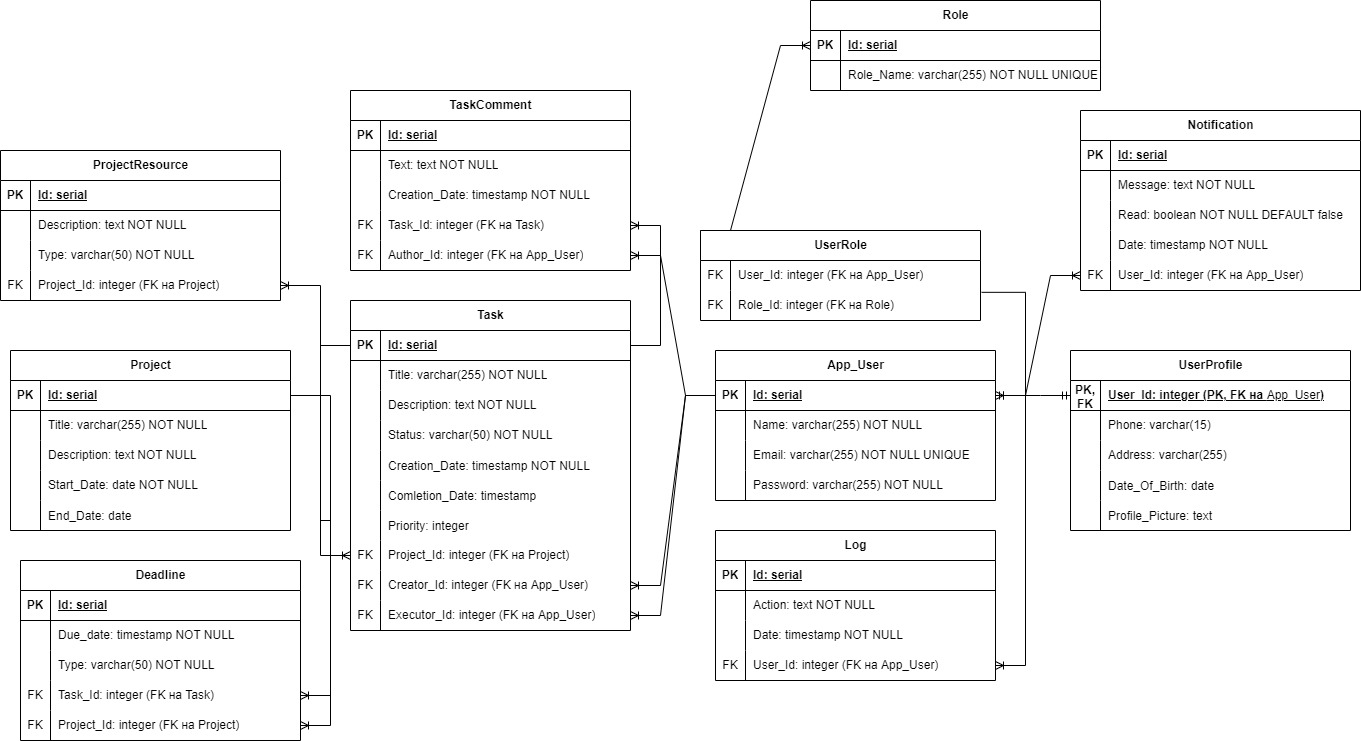
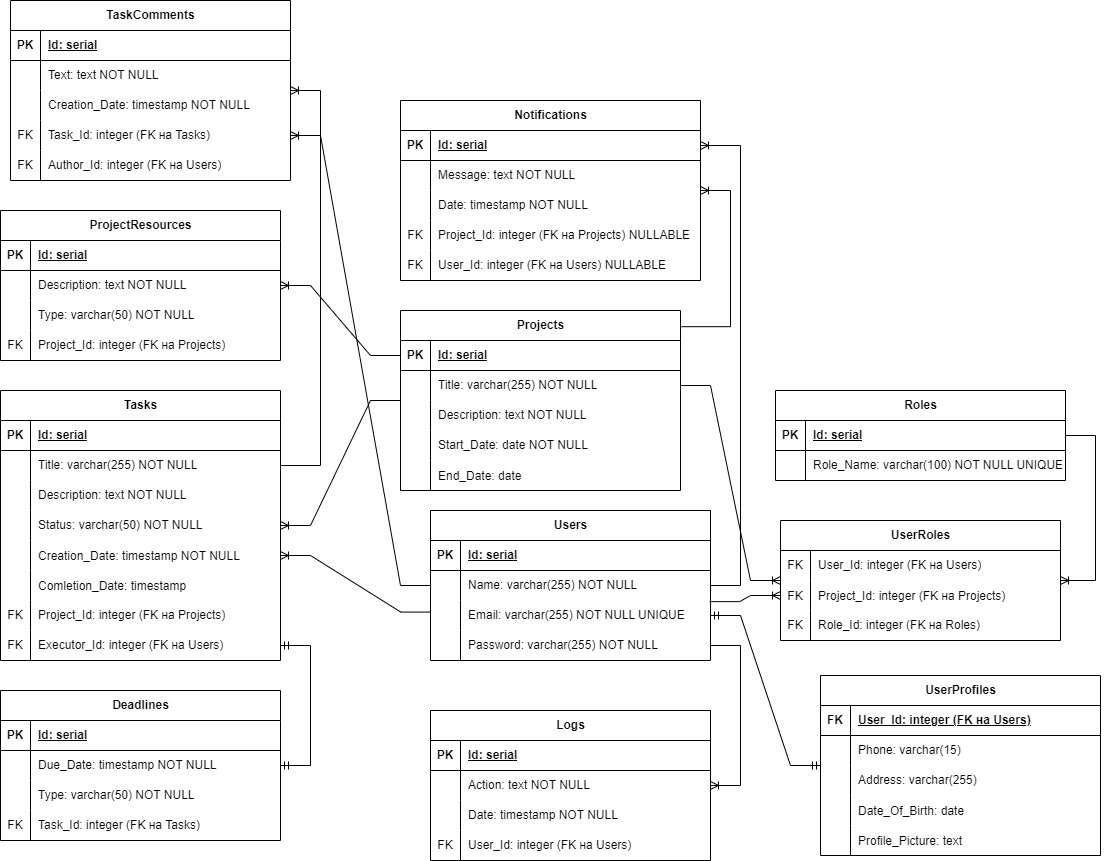
fix Lab2

diff --git a/MDSYBD/tables_description.md b/MDSYBD/tables_description.md
@@ -1,7 +1,7 @@
 1. Users (Пользователи)
    Id: serial (PK)
    Name: varchar(255) NOT NULL
-   Email: varchar(255) NOT NULL, UNIQUE
+   Email: varchar(255) NOT NULL UNIQUE
    Password: varchar(255) NOT NULL
 
    Один ко многим:
@@ -10,14 +10,11 @@
    - TaskComments;
    - Logs;
    - Notifications.
+   - UserRoles.
 
    Один к одному:
 
    - UserProfiles.
-
-   Один ко многим:
-
-   - UserRoles.
 
 2. Roles (Роли)
    Id: serial (PK)
@@ -87,7 +84,6 @@
 
    - Tasks;
    - ProjectResources;
-   - Deadlines.
 
 7. ProjectResources (Ресурсы проектов)
    Id: serial (PK)
@@ -112,10 +108,9 @@
 9. Notifications (Уведомления)
    Id: serial (PK)
    Message: text NOT NULL
-   Read: boolean NOT NULL DEFAULT false
    Date: timestamp NOT NULL
-   User_Id: integer (FK на Users)
-   Project_Id: integer (FK на Project)
+   User_Id: integer (FK на Users, NULLABLE)
+   Project_Id: integer (FK на Projects, NULLABLE)
 
    Многие к одному:
 
@@ -127,18 +122,20 @@
     Due_Date: timestamp NOT NULL
     Type: varchar(50) NOT NULL
     Task_Id: integer (FK на Task), UNIQUE
-    Project_Id: integer (FK на Project)
 
     Один к одному:
 
     - Tasks.
 
-    Многие к одному:
-
-    - Projects.
-
 11. UserRoles (Роли пользователей)
-    User_Id: integer (FK на Users), UNIQUE
-    Role_Id: integer (FK на Role), UNIQUE
-    Project_Id: integer (FK на Project)
-    Один пользователь — одна роль в проекте.
+
+    - User_Id: integer (FK на Users)
+    - Role_Id: integer (FK на Roles)
+    - Project_Id: integer (FK на Projects)
+
+    - Ограничения:
+
+      - UNIQUE (User_Id, Project_Id)
+
+    - Связи:
+      - Один пользователь — одна роль в проекте.
